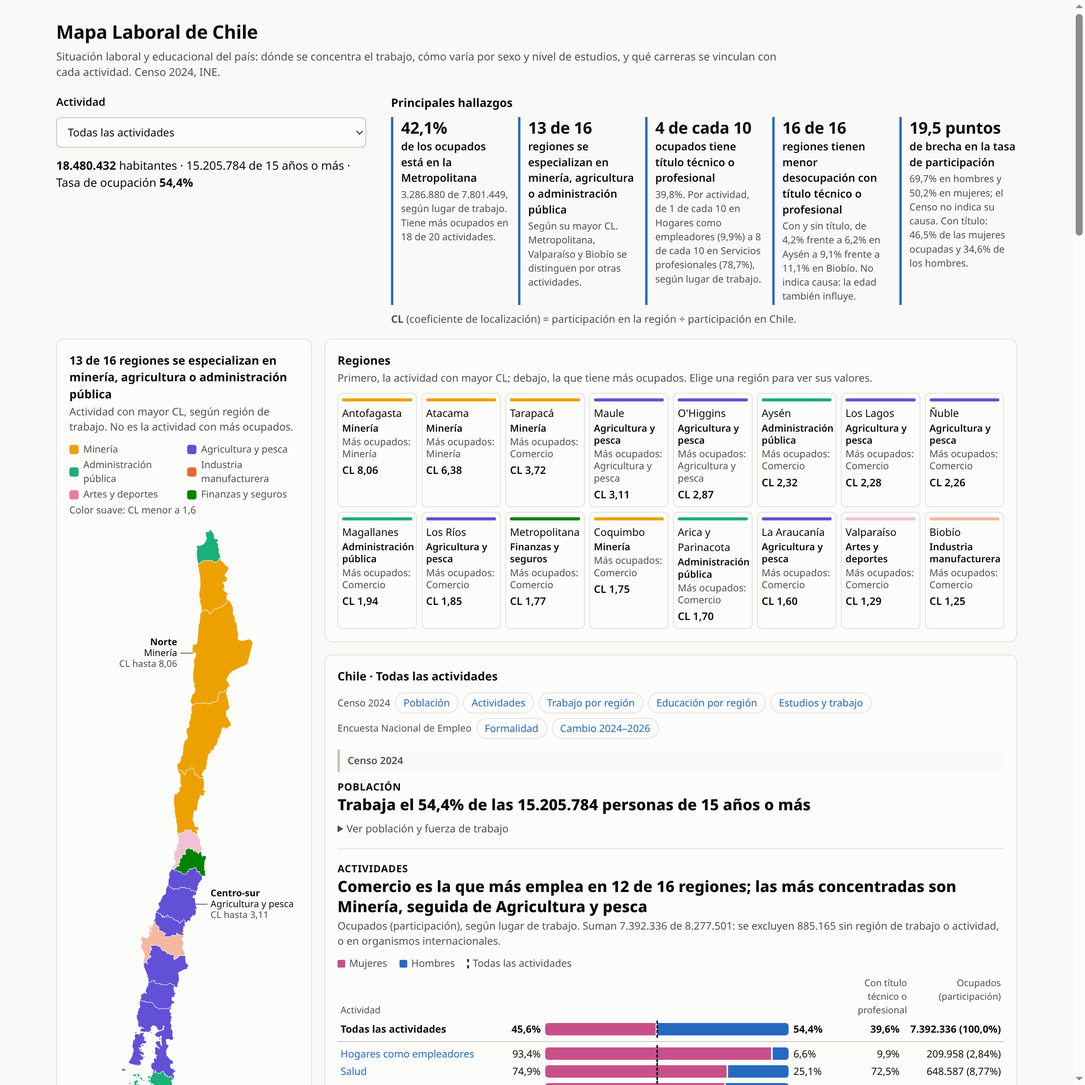
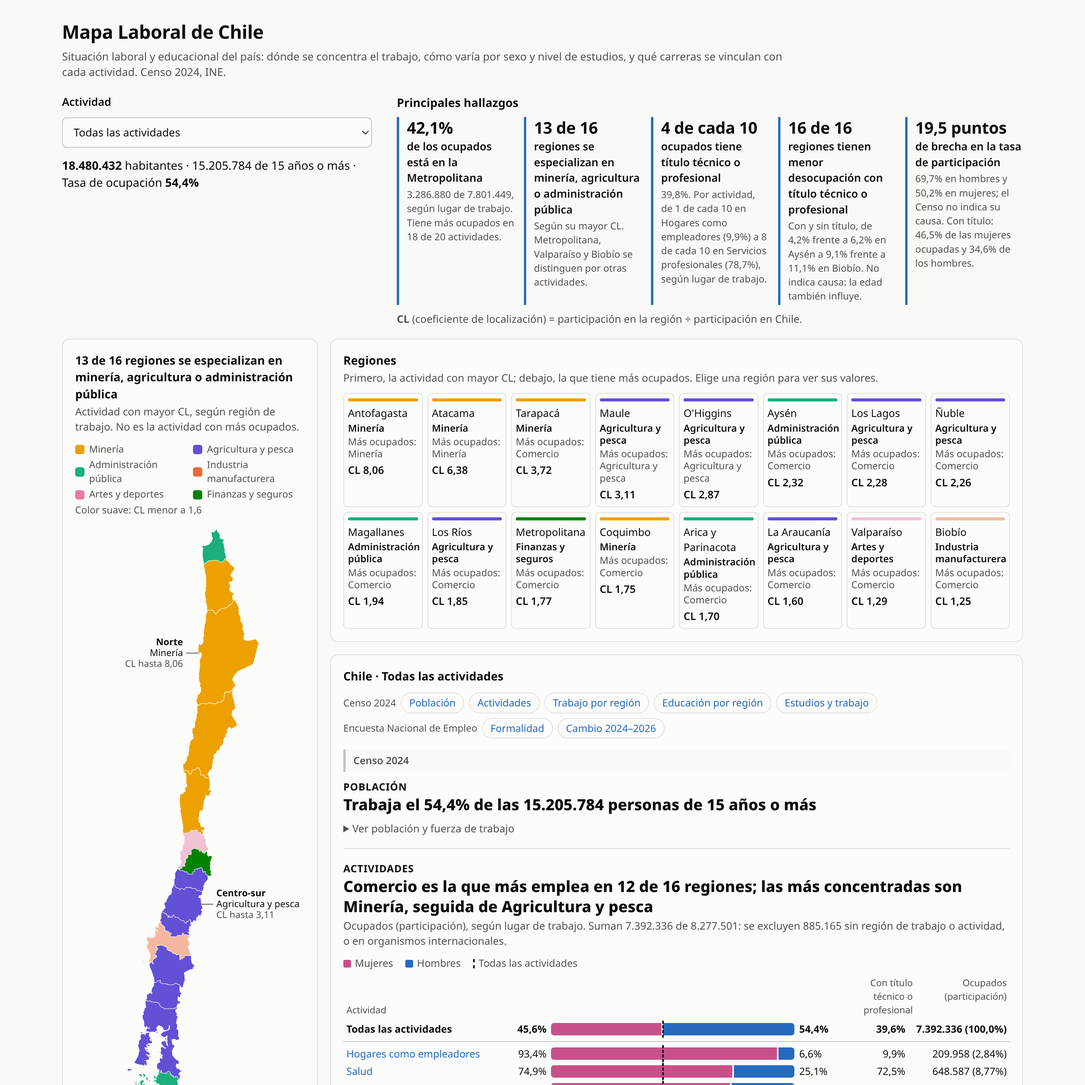
Grafica la desocupación por título en columnas agrupadas por región
Reemplaza el dumbbell regional de Estudios y trabajo por columnas verticales
con y sin título, con Chile primero y la diferencia bajo cada región.

diff --git a/docs/index.html b/docs/index.html
@@ -186,24 +186,15 @@ button.evc-grupo{all:unset;box-sizing:border-box;cursor:pointer}button.evc-grupo
 /* Nombres a 45°: el texto termina bajo el centro de su grupo y baja hacia la izquierda, para que cada nombre quede junto a sus columnas. */
 .compacto .evc-nombre{position:relative;align-self:stretch;height:6.6em;min-height:0;margin-top:6px}.compacto .evc-nombre span{position:absolute;right:50%;top:0;white-space:nowrap;transform:rotate(-45deg);transform-origin:right top}
 .compacto .evc-total{margin-right:8px;border-right:1px solid var(--linea);border-radius:4px 0 0 4px}
-/* Estudios y trabajo: barras 100% por nivel con los colores de la barra de Población, y dumbbell por región en dos
+/* Estudios y trabajo: barras 100% por nivel con los colores de la barra de Población, y columnas por región en dos
    tonos de un mismo verde (oscuro con título, claro sin título; en modo oscuro se invierte el brillo). */
-.graf-sn,.graf-db{margin:12px 0 4px}
+.graf-sn{margin:12px 0 4px}
 .sn-fila{display:grid;grid-template-columns:minmax(0,11rem) minmax(0,420px) auto;justify-content:start;align-items:center;gap:6px 12px;padding:3px 4px;border-radius:4px;font-size:13px}
 .sn-fila:hover,.sn-fila:focus-visible{background:var(--plano)}.sn-fila:focus-visible{outline:2px solid var(--acento)}
 .sn-barra{display:flex;gap:2px;height:20px}.sn-barra i{display:flex;align-items:center;justify-content:center;min-width:2px;border-radius:2px;font-style:normal;font-size:12px;color:#fff;font-variant-numeric:tabular-nums}
 .sn-barra i.s-no-buscan{color:var(--t1)}.sn-tasas{color:var(--t2);font-size:12.5px}.sn-tasas b{color:var(--t1);font-weight:600}
 .gs-leyenda i.s-trabajan,.gs-leyenda i.s-buscan,.gs-leyenda i.s-no-buscan{border-radius:2px}
-.db-fila{all:unset;box-sizing:border-box;display:grid;grid-template-columns:minmax(0,13rem) minmax(0,420px) 5.4em;justify-content:start;align-items:center;gap:6px 10px;width:100%;padding:3px 4px;border-radius:4px;cursor:pointer;font-size:13px}
-.db-fila:hover,.db-fila:focus-visible{background:var(--plano)}.db-fila:focus-visible{outline:2px solid var(--acento)}
-.db-nombre{color:var(--acento);overflow-wrap:anywhere}div.db-fila{cursor:default}div.db-fila .db-nombre{color:var(--t1)}
-.db-total{font-weight:700;border-bottom:1px solid var(--linea);border-radius:4px 4px 0 0;margin-bottom:4px;padding-bottom:6px}
-.db-pista{position:relative;height:16px;margin:0 6px}.db-linea{position:absolute;top:7px;height:2px;background:var(--eje)}
-.db-punto{position:absolute;top:3px;width:10px;height:10px;margin-left:-5px;border-radius:50%;box-shadow:0 0 0 2px var(--sup)}
-.db-con{background:var(--tit-con)}.db-sin{background:var(--tit-sin)}
-.gs-leyenda i.db-punto.ley{position:static;display:inline-block;margin:0 5px 0 0;border-radius:50%;box-shadow:none;vertical-align:-1px}
-.db-dif{font-variant-numeric:tabular-nums;color:var(--t1);text-align:right}
-.db-eje{cursor:default;color:var(--t2);font-size:12px;padding-bottom:0}.db-eje:hover{background:none}.db-eje .db-pista span{position:absolute;transform:translateX(-50%)}.db-eje .db-dif{color:var(--t2)}
+.tcon{background:var(--tit-con)}.tsin{background:var(--tit-sin)}.gs-leyenda i.tcon,.gs-leyenda i.tsin{border-radius:2px}
 .gs-barra b{position:absolute;top:-3px;bottom:-3px;border-left:2px dashed var(--t1)}
 .tema{margin:0;font-size:13px;font-weight:700;letter-spacing:.04em;text-transform:uppercase;color:var(--t1)}
 .invita{margin:8px 0 0;padding:8px 10px;border:1px solid var(--linea);border-radius:6px}
@@ -232,7 +223,7 @@ button.evc-grupo{all:unset;box-sizing:border-box;cursor:pointer}button.evc-grupo
 @media(max-width:1290px){.lista{grid-template-columns:repeat(4,minmax(0,1fr))}}
 @media(max-width:1290px){.detalle{grid-column:1/-1}.tarjeta.mapa{grid-row:auto}}
 @media(max-width:900px){.grilla{grid-template-columns:minmax(0,1fr)}}
-@media(max-width:640px){.gs-fila{grid-template-columns:3.4em minmax(0,1fr) 3.4em;row-gap:2px;padding:4px}.gs-nombre{grid-column:1/-1}.gs-cab{display:none}.sn-fila{grid-template-columns:minmax(0,1fr);row-gap:3px}.db-fila{grid-template-columns:minmax(0,1fr) auto;row-gap:2px;padding:4px}.db-nombre{grid-column:1/-1}.db-eje>span:first-child{display:none}.db-eje .db-dif{visibility:hidden}.evc-col{width:26px}.evc-col em{font-size:11px}.evc-cols{gap:2px}.evc{padding-left:2em}.evc-grilla span{left:2em}.evc.compacto{padding-left:4.4em}.compacto .evc-grilla span{left:4.4em}table{display:block;overflow-x:auto}.viz-root{padding:14px}.grilla{grid-template-columns:minmax(0,1fr)}.mapa svg{max-width:200px}.lista{grid-template-columns:repeat(2,minmax(0,1fr))}}
+@media(max-width:640px){.gs-fila{grid-template-columns:3.4em minmax(0,1fr) 3.4em;row-gap:2px;padding:4px}.gs-nombre{grid-column:1/-1}.gs-cab{display:none}.sn-fila{grid-template-columns:minmax(0,1fr);row-gap:3px}.evc-col{width:26px}.evc-col em{font-size:11px}.evc-cols{gap:2px}.evc{padding-left:2em}.evc-grilla span{left:2em}.evc.compacto{padding-left:4.4em}.compacto .evc-grilla span{left:4.4em}table{display:block;overflow-x:auto}.viz-root{padding:14px}.grilla{grid-template-columns:minmax(0,1fr)}.mapa svg{max-width:200px}.lista{grid-template-columns:repeat(2,minmax(0,1fr))}}
 </style>
 </head>
 <body>
@@ -580,21 +571,23 @@ function barrasNivel(){const partes=[["ocupados","Ocupados","s-trabajan"],["deso
  return `<figure class="graf-sn" style="margin-left:0;margin-right:0"><figcaption class="gs-leyenda"><span><strong style="color:var(--t1)">Situación laboral por nivel de estudios, Chile</strong></span>`+
   partes.map(([,n,k])=>`<span><i class="${k}"></i>${n}</span>`).join("")+`</figcaption>`+NIVELES.map(fila).join("")+`</figure>`+
   `<p class="nota" style="margin:2px 0 8px">% de la población de 15 años o más de cada nivel. Junto a cada barra, las tasas: desocupación sobre la fuerza de trabajo (ocupados y desocupados) y participación sobre la población.</p>`}
-// Dumbbell por región: el largo de la línea es la diferencia entre sin título y con título, que es el hallazgo. No parte
-// en 0, porque lo que se compara es la distancia entre los dos puntos; el eje muestra las cifras. Bajo cada fila, solo la
-// diferencia: las dos tasas van en el globo y en "Ver cifras".
-function dumbbellTitulo(){const filas=Object.entries(EST.desocupacion_titulo).sort((a,b)=>(b[1][1]-b[1][0])-(a[1][1]-a[1][0])||a[0]-b[0]);
- const todos=[EST.desocupacion_titulo_chile,...filas.map(([,v])=>v)].flat(),lo=Math.floor(Math.min(...todos)/2)*2,hi=Math.ceil(Math.max(...todos)/2)*2,pos=x=>100*(x-lo)/(hi-lo);
- const marcas=Array.from({length:(hi-lo)/2+1},(_,k)=>lo+2*k);
- const fila=(t,[c,sn],clase,attr)=>{const dif=sn-c,partes=[`${num(c,1)}% con título técnico o profesional`,`${num(sn,1)}% sin título superior`,`diferencia ${num(dif,1)} pp`];
+// Columnas agrupadas por región, con y sin título, en el mismo formato que Cambio 2024–2026: escala desde 0, nombres a 45°
+// y desplazamiento lateral en pantallas angostas. Bajo cada región va solo la diferencia; las dos tasas están en el globo
+// y en "Ver cifras". Se descartó el dumbbell: dos puntos sobre una línea se leían peor que el largo de una barra.
+function columnasTitulo(){const filas=Object.entries(EST.desocupacion_titulo).sort((a,b)=>(b[1][1]-b[1][0])-(a[1][1]-a[1][0])||a[0]-b[0]);
+ const todos=[EST.desocupacion_titulo_chile,...filas.map(([,v])=>v)].flat(),tope=Math.ceil(Math.max(...todos)/4)*4,pos=x=>100*x/tope;
+ const marcas=Array.from({length:tope/4+1},(_,k)=>4*k);
+ const grupo=(t,[c,sn],clase,attr)=>{const partes=[`${num(c,1)}% con título técnico o profesional`,`${num(sn,1)}% sin título superior`,`diferencia ${num(sn-c,1)} pp`];
   const tag=attr?"button":"div";
-  return `<${tag} class="db-fila${clase}" ${attr}${attr?"":' role="img" tabindex="0"'} aria-label="${t}: ${partes.join(", ")}" data-tip="${`<strong>${t}</strong><br>${partes.join("<br>")}`.replace(/"/g,"&quot;")}">`+
-   `<span class="db-nombre">${t}</span><span class="db-pista" aria-hidden="true"><i class="db-linea" style="left:${pos(c)}%;width:${pos(sn)-pos(c)}%"></i>`+
-   `<i class="db-punto db-con" style="left:${pos(c)}%"></i><i class="db-punto db-sin" style="left:${pos(sn)}%"></i></span><span class="db-dif">+${num(dif,1)} pp</span></${tag}>`};
- return `<figure class="graf-db" style="margin-left:0;margin-right:0"><figcaption class="gs-leyenda"><span><strong style="color:var(--t1)">Tasa de desocupación por región</strong></span>`+
-  `<span><i class="db-punto db-con ley"></i>Con título técnico o profesional</span><span><i class="db-punto db-sin ley"></i>Sin título superior</span></figcaption>`+
-  `<div class="db-fila db-eje" aria-hidden="true"><span></span><span class="db-pista">${marcas.map(m=>`<span style="left:${pos(m)}%">${m}%</span>`).join("")}</span><span class="db-dif">Diferencia</span></div>`+
-  fila("Chile",EST.desocupacion_titulo_chile," db-total","")+filas.map(([r,v])=>fila(nomReg(r),v,"",`data-r="${r}"`)).join("")+`</figure>`}
+  return `<${tag} class="evc-grupo${clase}" ${attr}${attr?"":' role="img" tabindex="0"'} data-tip="${`<strong>${t}</strong><br>${partes.join("<br>")}`.replace(/"/g,"&quot;")}" aria-label="${t}: ${partes.join(", ")}">`+
+   `<span class="evc-cols" aria-hidden="true"><span class="evc-col tcon" style="height:${pos(c)}%"></span><span class="evc-col tsin" style="height:${pos(sn)}%"></span></span>`+
+   `<span class="evc-nombre"><span>${t}</span></span><span class="evc-dif">+${num(sn-c,1)}</span></${tag}>`};
+ return `<figure class="graf-ev" style="margin-left:0;margin-right:0"><figcaption class="gs-leyenda"><span><strong style="color:var(--t1)">Tasa de desocupación por región</strong></span>`+
+  `<span><i class="tcon"></i>Con título técnico o profesional</span><span><i class="tsin"></i>Sin título superior</span></figcaption>`+
+  `<div class="evc-desliza"><div class="evc compacto"><div class="evc-rotulos" aria-hidden="true"><span>Diferencia</span></div>`+
+  `<div class="evc-grilla" aria-hidden="true">${marcas.map(m=>`<span style="bottom:${pos(m)}%"><small>${m}%</small></span>`).join("")}</div>`+
+  grupo("Chile",EST.desocupacion_titulo_chile," evc-total","")+filas.map(([r,v])=>grupo(nomReg(r),v,"",`data-r="${r}"`)).join("")+`</div></div></figure>`+
+  `<p class="nota" style="margin:2px 0 0">Bajo cada región, la diferencia en pp (sin título menos con título). Tasa según región de residencia.</p>`}
 // Tabla gemela de los dos gráficos: todas las cifras, para quien no ve el gráfico o quiere el detalle sin pasar el mouse.
 function tablaEstudios(){const filas=Object.entries(EST.desocupacion_titulo).sort((a,b)=>(b[1][1]-b[1][0])-(a[1][1]-a[1][0])||a[0]-b[0]);
  const tr=(t,[c,sn],k)=>`<tr class="${k}"><td>${t}</td><td class="n">${num(c,1)}%</td><td class="n">${num(sn,1)}%</td><td class="n">+${num(sn-c,1)} pp</td></tr>`;
@@ -665,7 +658,7 @@ function vistaResumen(){
  <p style="margin:8px 0 0">${desocTitulo()}</p>
  <p style="margin:8px 0 0">Tienen título técnico o profesional ${num(EST.pct_con_titulo,1)}% de los ocupados: ${num(EST.sexo.mujeres,1)}% de las mujeres y ${num(EST.sexo.hombres,1)}% de los hombres.</p>
  ${barrasNivel()}
- ${dumbbellTitulo()}
+ ${columnasTitulo()}
  ${tablaEstudios()}
  <p class="nota" style="margin:6px 0 0">Estas diferencias no indican causa: la edad de cada grupo, por ejemplo, también influye.</p>
  <hr class="separador">${banda("Encuesta Nacional de Empleo (INE)")}

diff --git a/src/Visualizacion/web/js/vistas/resumen.js b/src/Visualizacion/web/js/vistas/resumen.js
@@ -162,21 +162,23 @@ function barrasNivel(){const partes=[["ocupados","Ocupados","s-trabajan"],["deso
  return `<figure class="graf-sn" style="margin-left:0;margin-right:0"><figcaption class="gs-leyenda"><span><strong style="color:var(--t1)">Situación laboral por nivel de estudios, Chile</strong></span>`+
   partes.map(([,n,k])=>`<span><i class="${k}"></i>${n}</span>`).join("")+`</figcaption>`+NIVELES.map(fila).join("")+`</figure>`+
   `<p class="nota" style="margin:2px 0 8px">% de la población de 15 años o más de cada nivel. Junto a cada barra, las tasas: desocupación sobre la fuerza de trabajo (ocupados y desocupados) y participación sobre la población.</p>`}
-// Dumbbell por región: el largo de la línea es la diferencia entre sin título y con título, que es el hallazgo. No parte
-// en 0, porque lo que se compara es la distancia entre los dos puntos; el eje muestra las cifras. Bajo cada fila, solo la
-// diferencia: las dos tasas van en el globo y en "Ver cifras".
-function dumbbellTitulo(){const filas=Object.entries(EST.desocupacion_titulo).sort((a,b)=>(b[1][1]-b[1][0])-(a[1][1]-a[1][0])||a[0]-b[0]);
- const todos=[EST.desocupacion_titulo_chile,...filas.map(([,v])=>v)].flat(),lo=Math.floor(Math.min(...todos)/2)*2,hi=Math.ceil(Math.max(...todos)/2)*2,pos=x=>100*(x-lo)/(hi-lo);
- const marcas=Array.from({length:(hi-lo)/2+1},(_,k)=>lo+2*k);
- const fila=(t,[c,sn],clase,attr)=>{const dif=sn-c,partes=[`${num(c,1)}% con título técnico o profesional`,`${num(sn,1)}% sin título superior`,`diferencia ${num(dif,1)} pp`];
+// Columnas agrupadas por región, con y sin título, en el mismo formato que Cambio 2024–2026: escala desde 0, nombres a 45°
+// y desplazamiento lateral en pantallas angostas. Bajo cada región va solo la diferencia; las dos tasas están en el globo
+// y en "Ver cifras". Se descartó el dumbbell: dos puntos sobre una línea se leían peor que el largo de una barra.
+function columnasTitulo(){const filas=Object.entries(EST.desocupacion_titulo).sort((a,b)=>(b[1][1]-b[1][0])-(a[1][1]-a[1][0])||a[0]-b[0]);
+ const todos=[EST.desocupacion_titulo_chile,...filas.map(([,v])=>v)].flat(),tope=Math.ceil(Math.max(...todos)/4)*4,pos=x=>100*x/tope;
+ const marcas=Array.from({length:tope/4+1},(_,k)=>4*k);
+ const grupo=(t,[c,sn],clase,attr)=>{const partes=[`${num(c,1)}% con título técnico o profesional`,`${num(sn,1)}% sin título superior`,`diferencia ${num(sn-c,1)} pp`];
   const tag=attr?"button":"div";
-  return `<${tag} class="db-fila${clase}" ${attr}${attr?"":' role="img" tabindex="0"'} aria-label="${t}: ${partes.join(", ")}" data-tip="${`<strong>${t}</strong><br>${partes.join("<br>")}`.replace(/"/g,"&quot;")}">`+
-   `<span class="db-nombre">${t}</span><span class="db-pista" aria-hidden="true"><i class="db-linea" style="left:${pos(c)}%;width:${pos(sn)-pos(c)}%"></i>`+
-   `<i class="db-punto db-con" style="left:${pos(c)}%"></i><i class="db-punto db-sin" style="left:${pos(sn)}%"></i></span><span class="db-dif">+${num(dif,1)} pp</span></${tag}>`};
- return `<figure class="graf-db" style="margin-left:0;margin-right:0"><figcaption class="gs-leyenda"><span><strong style="color:var(--t1)">Tasa de desocupación por región</strong></span>`+
-  `<span><i class="db-punto db-con ley"></i>Con título técnico o profesional</span><span><i class="db-punto db-sin ley"></i>Sin título superior</span></figcaption>`+
-  `<div class="db-fila db-eje" aria-hidden="true"><span></span><span class="db-pista">${marcas.map(m=>`<span style="left:${pos(m)}%">${m}%</span>`).join("")}</span><span class="db-dif">Diferencia</span></div>`+
-  fila("Chile",EST.desocupacion_titulo_chile," db-total","")+filas.map(([r,v])=>fila(nomReg(r),v,"",`data-r="${r}"`)).join("")+`</figure>`}
+  return `<${tag} class="evc-grupo${clase}" ${attr}${attr?"":' role="img" tabindex="0"'} data-tip="${`<strong>${t}</strong><br>${partes.join("<br>")}`.replace(/"/g,"&quot;")}" aria-label="${t}: ${partes.join(", ")}">`+
+   `<span class="evc-cols" aria-hidden="true"><span class="evc-col tcon" style="height:${pos(c)}%"></span><span class="evc-col tsin" style="height:${pos(sn)}%"></span></span>`+
+   `<span class="evc-nombre"><span>${t}</span></span><span class="evc-dif">+${num(sn-c,1)}</span></${tag}>`};
+ return `<figure class="graf-ev" style="margin-left:0;margin-right:0"><figcaption class="gs-leyenda"><span><strong style="color:var(--t1)">Tasa de desocupación por región</strong></span>`+
+  `<span><i class="tcon"></i>Con título técnico o profesional</span><span><i class="tsin"></i>Sin título superior</span></figcaption>`+
+  `<div class="evc-desliza"><div class="evc compacto"><div class="evc-rotulos" aria-hidden="true"><span>Diferencia</span></div>`+
+  `<div class="evc-grilla" aria-hidden="true">${marcas.map(m=>`<span style="bottom:${pos(m)}%"><small>${m}%</small></span>`).join("")}</div>`+
+  grupo("Chile",EST.desocupacion_titulo_chile," evc-total","")+filas.map(([r,v])=>grupo(nomReg(r),v,"",`data-r="${r}"`)).join("")+`</div></div></figure>`+
+  `<p class="nota" style="margin:2px 0 0">Bajo cada región, la diferencia en pp (sin título menos con título). Tasa según región de residencia.</p>`}
 // Tabla gemela de los dos gráficos: todas las cifras, para quien no ve el gráfico o quiere el detalle sin pasar el mouse.
 function tablaEstudios(){const filas=Object.entries(EST.desocupacion_titulo).sort((a,b)=>(b[1][1]-b[1][0])-(a[1][1]-a[1][0])||a[0]-b[0]);
  const tr=(t,[c,sn],k)=>`<tr class="${k}"><td>${t}</td><td class="n">${num(c,1)}%</td><td class="n">${num(sn,1)}%</td><td class="n">+${num(sn-c,1)} pp</td></tr>`;
@@ -247,7 +249,7 @@ function vistaResumen(){
  <p style="margin:8px 0 0">${desocTitulo()}</p>
  <p style="margin:8px 0 0">Tienen título técnico o profesional ${num(EST.pct_con_titulo,1)}% de los ocupados: ${num(EST.sexo.mujeres,1)}% de las mujeres y ${num(EST.sexo.hombres,1)}% de los hombres.</p>
  ${barrasNivel()}
- ${dumbbellTitulo()}
+ ${columnasTitulo()}
  ${tablaEstudios()}
  <p class="nota" style="margin:6px 0 0">Estas diferencias no indican causa: la edad de cada grupo, por ejemplo, también influye.</p>
  <hr class="separador">${banda("Encuesta Nacional de Empleo (INE)")}

diff --git a/src/Visualizacion/web/css/componentes.css b/src/Visualizacion/web/css/componentes.css
@@ -153,24 +153,15 @@ button.evc-grupo{all:unset;box-sizing:border-box;cursor:pointer}button.evc-grupo
 /* Nombres a 45°: el texto termina bajo el centro de su grupo y baja hacia la izquierda, para que cada nombre quede junto a sus columnas. */
 .compacto .evc-nombre{position:relative;align-self:stretch;height:6.6em;min-height:0;margin-top:6px}.compacto .evc-nombre span{position:absolute;right:50%;top:0;white-space:nowrap;transform:rotate(-45deg);transform-origin:right top}
 .compacto .evc-total{margin-right:8px;border-right:1px solid var(--linea);border-radius:4px 0 0 4px}
-/* Estudios y trabajo: barras 100% por nivel con los colores de la barra de Población, y dumbbell por región en dos
+/* Estudios y trabajo: barras 100% por nivel con los colores de la barra de Población, y columnas por región en dos
    tonos de un mismo verde (oscuro con título, claro sin título; en modo oscuro se invierte el brillo). */
-.graf-sn,.graf-db{margin:12px 0 4px}
+.graf-sn{margin:12px 0 4px}
 .sn-fila{display:grid;grid-template-columns:minmax(0,11rem) minmax(0,420px) auto;justify-content:start;align-items:center;gap:6px 12px;padding:3px 4px;border-radius:4px;font-size:13px}
 .sn-fila:hover,.sn-fila:focus-visible{background:var(--plano)}.sn-fila:focus-visible{outline:2px solid var(--acento)}
 .sn-barra{display:flex;gap:2px;height:20px}.sn-barra i{display:flex;align-items:center;justify-content:center;min-width:2px;border-radius:2px;font-style:normal;font-size:12px;color:#fff;font-variant-numeric:tabular-nums}
 .sn-barra i.s-no-buscan{color:var(--t1)}.sn-tasas{color:var(--t2);font-size:12.5px}.sn-tasas b{color:var(--t1);font-weight:600}
 .gs-leyenda i.s-trabajan,.gs-leyenda i.s-buscan,.gs-leyenda i.s-no-buscan{border-radius:2px}
-.db-fila{all:unset;box-sizing:border-box;display:grid;grid-template-columns:minmax(0,13rem) minmax(0,420px) 5.4em;justify-content:start;align-items:center;gap:6px 10px;width:100%;padding:3px 4px;border-radius:4px;cursor:pointer;font-size:13px}
-.db-fila:hover,.db-fila:focus-visible{background:var(--plano)}.db-fila:focus-visible{outline:2px solid var(--acento)}
-.db-nombre{color:var(--acento);overflow-wrap:anywhere}div.db-fila{cursor:default}div.db-fila .db-nombre{color:var(--t1)}
-.db-total{font-weight:700;border-bottom:1px solid var(--linea);border-radius:4px 4px 0 0;margin-bottom:4px;padding-bottom:6px}
-.db-pista{position:relative;height:16px;margin:0 6px}.db-linea{position:absolute;top:7px;height:2px;background:var(--eje)}
-.db-punto{position:absolute;top:3px;width:10px;height:10px;margin-left:-5px;border-radius:50%;box-shadow:0 0 0 2px var(--sup)}
-.db-con{background:var(--tit-con)}.db-sin{background:var(--tit-sin)}
-.gs-leyenda i.db-punto.ley{position:static;display:inline-block;margin:0 5px 0 0;border-radius:50%;box-shadow:none;vertical-align:-1px}
-.db-dif{font-variant-numeric:tabular-nums;color:var(--t1);text-align:right}
-.db-eje{cursor:default;color:var(--t2);font-size:12px;padding-bottom:0}.db-eje:hover{background:none}.db-eje .db-pista span{position:absolute;transform:translateX(-50%)}.db-eje .db-dif{color:var(--t2)}
+.tcon{background:var(--tit-con)}.tsin{background:var(--tit-sin)}.gs-leyenda i.tcon,.gs-leyenda i.tsin{border-radius:2px}
 .gs-barra b{position:absolute;top:-3px;bottom:-3px;border-left:2px dashed var(--t1)}
 .tema{margin:0;font-size:13px;font-weight:700;letter-spacing:.04em;text-transform:uppercase;color:var(--t1)}
 .invita{margin:8px 0 0;padding:8px 10px;border:1px solid var(--linea);border-radius:6px}

diff --git a/src/Visualizacion/web/css/layout.css b/src/Visualizacion/web/css/layout.css
@@ -29,4 +29,4 @@ Va al final porque sus reglas para pantallas angostas deben ganar sobre las de c
 @media(max-width:1290px){.lista{grid-template-columns:repeat(4,minmax(0,1fr))}}
 @media(max-width:1290px){.detalle{grid-column:1/-1}.tarjeta.mapa{grid-row:auto}}
 @media(max-width:900px){.grilla{grid-template-columns:minmax(0,1fr)}}
-@media(max-width:640px){.gs-fila{grid-template-columns:3.4em minmax(0,1fr) 3.4em;row-gap:2px;padding:4px}.gs-nombre{grid-column:1/-1}.gs-cab{display:none}.sn-fila{grid-template-columns:minmax(0,1fr);row-gap:3px}.db-fila{grid-template-columns:minmax(0,1fr) auto;row-gap:2px;padding:4px}.db-nombre{grid-column:1/-1}.db-eje>span:first-child{display:none}.db-eje .db-dif{visibility:hidden}.evc-col{width:26px}.evc-col em{font-size:11px}.evc-cols{gap:2px}.evc{padding-left:2em}.evc-grilla span{left:2em}.evc.compacto{padding-left:4.4em}.compacto .evc-grilla span{left:4.4em}table{display:block;overflow-x:auto}.viz-root{padding:14px}.grilla{grid-template-columns:minmax(0,1fr)}.mapa svg{max-width:200px}.lista{grid-template-columns:repeat(2,minmax(0,1fr))}}
+@media(max-width:640px){.gs-fila{grid-template-columns:3.4em minmax(0,1fr) 3.4em;row-gap:2px;padding:4px}.gs-nombre{grid-column:1/-1}.gs-cab{display:none}.sn-fila{grid-template-columns:minmax(0,1fr);row-gap:3px}.evc-col{width:26px}.evc-col em{font-size:11px}.evc-cols{gap:2px}.evc{padding-left:2em}.evc-grilla span{left:2em}.evc.compacto{padding-left:4.4em}.compacto .evc-grilla span{left:4.4em}table{display:block;overflow-x:auto}.viz-root{padding:14px}.grilla{grid-template-columns:minmax(0,1fr)}.mapa svg{max-width:200px}.lista{grid-template-columns:repeat(2,minmax(0,1fr))}}

diff --git a/docs/nota_de_lectura.md b/docs/nota_de_lectura.md
@@ -39,7 +39,7 @@ La vista inicial resume la población, las 20 actividades, la actividad con mayo
 | **Empleabilidad al 1er año** | % de titulados con ingresos iguales o superiores al sueldo mínimo. Promedio de las instituciones, ponderado por sus títulos de 2021-2023; con 3 o más instituciones se muestra también el rango, de la más baja a la más alta. Solo considera a titulados de hasta 30 años | MiFuturo |
 | **Ingreso medio** | Ingreso bruto mensual medio al 1er y al 5° año, en pesos de septiembre de 2025. Son generaciones distintas, no una evolución. MiFuturo los publica por tipo de institución (universidad, IP o CFT), no por institución, así que no tienen rango. Solo consideran a titulados de hasta 30 años | MiFuturo |
 | **Situación educacional por región** | Población de 15 años o más por nivel de estudios, según residencia, con nivel y situación laboral informados (15.102.704 personas). Se excluyen 97.157 sin nivel informado y 5.923 sin situación laboral. Incluye a jóvenes que aún estudian, así que el % con título depende de la edad de cada región: 28,2% en Chile, de 21,1% en Maule a 32,9% en la Metropolitana | Censo 2024 |
-| **Estudios y trabajo** | Ocupados, tasa de desocupación y tasa de participación por nivel, en Chile. Base: residencia y nivel informado (8.273.406 ocupados). También el % con título de los ocupados por sexo, y la tasa de desocupación con y sin título en cada región: es menor con título en las 16. Un gráfico de barras 100% reparte la población de 15 años o más de cada nivel en ocupados, desocupados y fuera de la fuerza de trabajo, con las tasas al lado; otro, de dos puntos por región (con y sin título, Chile arriba con 6,8% y 9,7%), muestra la diferencia como el largo de la línea. Las cifras completas están en "Ver cifras". Son diferencias descriptivas: no indican causa | Censo 2024 |
+| **Estudios y trabajo** | Ocupados, tasa de desocupación y tasa de participación por nivel, en Chile. Base: residencia y nivel informado (8.273.406 ocupados). También el % con título de los ocupados por sexo, y la tasa de desocupación con y sin título en cada región: es menor con título en las 16. Un gráfico de barras 100% reparte la población de 15 años o más de cada nivel en ocupados, desocupados y fuera de la fuerza de trabajo, con las tasas al lado; otro, de columnas agrupadas por región (con y sin título, Chile primero con 6,8% y 9,7%), lleva la diferencia en pp bajo cada región y se desliza de lado en pantallas angostas. Las cifras completas están en "Ver cifras". Son diferencias descriptivas: no indican causa | Censo 2024 |
 | **Con título técnico o profesional** | En el gráfico de Actividades, a la derecha de cada barra, % de los ocupados de cada actividad con título técnico o profesional, según lugar de trabajo y con nivel informado. En todas las actividades es 39,6%; el 39,8% de los hallazgos se cuenta por residencia | Censo 2024 |
 | **Nivel de estudios de los ocupados** | Perfil de cada actividad, en Chile o en la región elegida, por sexo. Base: lugar de trabajo y nivel informado. El Censo registra la actividad solo de quienes trabajan, así que no hay tasa de desocupación por actividad. Bajo 60 personas lleva un asterisco, y bajo 10 se muestra "menos de 10" | Censo 2024 |
 

diff --git a/README.md b/README.md
@@ -6,7 +6,7 @@ Mapa interactivo sobre la situación laboral y educacional de Chile. Muestra dó
 
 La vista inicial resume la población, las 20 actividades (con un gráfico de hombres y mujeres y otro de la región donde más pesa cada una) y la formalidad del trabajo, con un índice de secciones y el hallazgo de cada una como título. Al elegir una actividad, el mapa colorea cada región según su coeficiente de localización (CL). Al elegir una región, se ven sus cifras por sexo y nivel de estudios, y las carreras afines a nivel nacional, cada una con su ficha de titulados, empleabilidad e ingresos.
 
-**Para verlo:** descarga [`docs/index.html`](docs/index.html) y ábrelo en el navegador. Es un solo archivo de 373 KB, sin servidor ni dependencias. Cada vista tiene su propio enlace: por ejemplo, `index.html#B/2` abre Minería en Antofagasta, y el botón "atrás" del navegador vuelve a la vista anterior.
+**Para verlo:** descarga [`docs/index.html`](docs/index.html) y ábrelo en el navegador. Es un solo archivo de 372 KB, sin servidor ni dependencias. Cada vista tiene su propio enlace: por ejemplo, `index.html#B/2` abre Minería en Antofagasta, y el botón "atrás" del navegador vuelve a la vista anterior.
 
 ![Vista inicial del mapa: cada región tiene el color de la actividad que la distingue, junto a los principales hallazgos, la lista de regiones y el gráfico de hombres y mujeres por actividad](docs/mapa.png)
 
